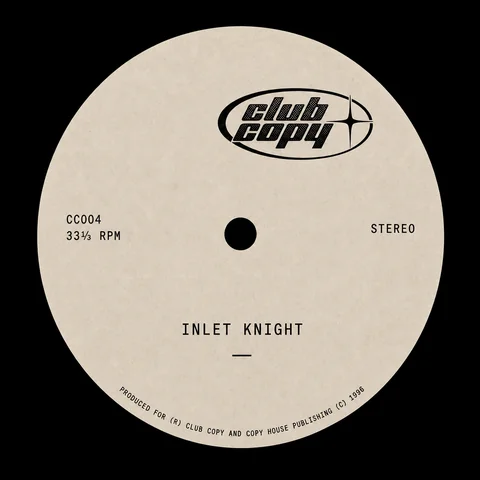
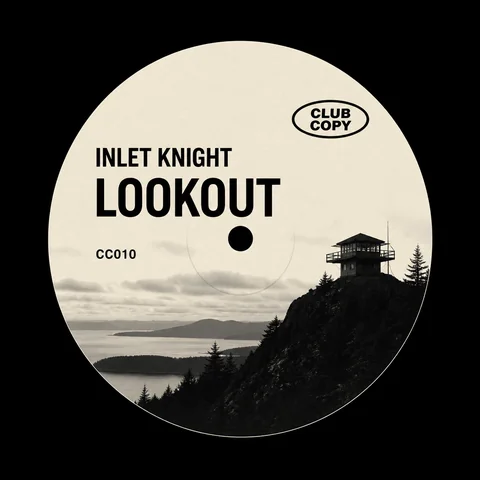
Add Lookout news for Inlet Knight upcoming single
Announce CC010 pre-order with the fire-lookout label art as cover and news hero. Wire the article through the news index, home rail, sitemap, artist page, and llms.txt.

diff --git a/news/lookout.html b/news/lookout.html
@@ -3,7 +3,7 @@
 <head>
   <meta charset="UTF-8"/>
   <meta name="viewport" content="width=device-width,initial-scale=1,viewport-fit=cover"/>
-  <title>News: Sun & Moon (Eclipse Parts 1–3) — Inlet Knight | Club Copy</title>
+  <title>News: Lookout — Inlet Knight | Club Copy</title>
   <script type="application/ld+json">
 {
   "@context": "https://schema.org",
@@ -24,46 +24,42 @@
     {
       "@type": "ListItem",
       "position": 3,
-      "name": "Sun & Moon (Eclipse Parts 1–3)",
-      "item": "https://www.clubcopy.ca/news/sun-and-moon-eclipse"
+      "name": "Lookout",
+      "item": "https://www.clubcopy.ca/news/lookout"
     }
   ]
 }
   </script>
-  <meta name="description" content="Inlet Knight’s Eclipse series is out on Club Copy — Sun & Moon (Part 1), Solar (Part 2), and Lunar (Part 3). Three house singles, digital only (CC012)."/>
+  <meta name="description" content="Lookout — upcoming Inlet Knight single on Club Copy (CC010). Digital pre-order open now."/>
   <meta name="theme-color" content="#FAF8F5"/>
-  <link rel="canonical" href="https://www.clubcopy.ca/news/sun-and-moon-eclipse"/>
+  <link rel="canonical" href="https://www.clubcopy.ca/news/lookout"/>
   <meta property="og:type" content="article"/>
   <meta property="og:site_name" content="Club Copy"/>
-  <meta property="og:title" content="Sun & Moon (Eclipse Parts 1–3) is out"/>
-  <meta property="og:description" content="Three house singles from Inlet Knight on Club Copy — Sun & Moon, Solar, Lunar."/>
-  <meta property="og:url" content="https://www.clubcopy.ca/news/sun-and-moon-eclipse"/>
-  <meta property="og:image" content="https://www.clubcopy.ca/news-eclipse.webp"/>
+  <meta property="og:title" content="Lookout — Inlet Knight"/>
+  <meta property="og:description" content="Upcoming house single from Inlet Knight on Club Copy (CC010). Digital pre-order open."/>
+  <meta property="og:url" content="https://www.clubcopy.ca/news/lookout"/>
+  <meta property="og:image" content="https://www.clubcopy.ca/news-lookout.webp"/>
   <meta property="og:image:width" content="1400"/>
   <meta property="og:image:height" content="1400"/>
   <meta property="og:locale" content="en_CA"/>
   <meta name="twitter:card" content="summary_large_image"/>
-  <meta name="twitter:title" content="Sun & Moon (Eclipse Parts 1–3) — Club Copy"/>
-  <meta name="twitter:description" content="Three house singles from Inlet Knight on Club Copy — Sun & Moon, Solar, Lunar."/>
-  <meta name="twitter:image" content="https://www.clubcopy.ca/news-eclipse.webp"/>
+  <meta name="twitter:title" content="Lookout — Club Copy"/>
+  <meta name="twitter:description" content="Upcoming Inlet Knight single. Digital pre-order on Club Copy (CC010)."/>
+  <meta name="twitter:image" content="https://www.clubcopy.ca/news-lookout.webp"/>
   <meta property="article:published_time" content="2026-08-12"/>
   <meta property="article:author" content="CJ Archer"/>
   <script type="application/ld+json">
   {
     "@context": "https://schema.org",
     "@type": "NewsArticle",
-    "headline": "Sun & Moon (Eclipse Parts 1–3)",
-    "description": "Inlet Knight’s Eclipse series is out on Club Copy — Sun & Moon (Part 1), Solar (Part 2), and Lunar (Part 3). Three house singles, digital only (CC012).",
+    "headline": "Lookout",
+    "description": "Lookout — upcoming Inlet Knight single on Club Copy (CC010). Digital pre-order open now.",
     "datePublished": "2026-08-12",
     "dateModified": "2026-08-12",
     "author": {"@type": "Person", "name": "CJ Archer", "url": "https://www.clubcopy.ca/artists/cj-archer"},
-    "image": ["https://www.clubcopy.ca/news-eclipse.webp"],
-    "mainEntityOfPage": "https://www.clubcopy.ca/news/sun-and-moon-eclipse",
-    "about": [
-      {"@type": "MusicRecording", "name": "Sun & Moon (Eclipse Part 1)", "url": "https://www.clubcopy.ca/sun-and-moon-eclipse"},
-      {"@type": "MusicRecording", "name": "Solar (Eclipse Part 2)", "url": "https://www.clubcopy.ca/solar-eclipse-part-2"},
-      {"@type": "MusicRecording", "name": "Lunar (Eclipse Part 3)", "url": "https://www.clubcopy.ca/lunar-eclipse-part-3"}
-    ],
+    "image": ["https://www.clubcopy.ca/news-lookout.webp"],
+    "mainEntityOfPage": "https://www.clubcopy.ca/news/lookout",
+    "about": {"@type": "MusicRecording", "name": "Lookout", "url": "https://www.clubcopy.ca/lookout", "catalogNumber": "CC010"},
     "publisher": {
       "@type": "Organization",
       "name": "Club Copy",
@@ -124,32 +120,25 @@
   <div class="band">
     <article class="news-article">
       <div class="news-article-hero">
-        <img src="../news-eclipse.webp" alt="Sun & Moon, Solar, and Lunar vinyl labels — Eclipse Parts 1–3" width="1400" height="1400" fetchpriority="high"/>
+        <img src="../news-lookout.webp" alt="Lookout — Inlet Knight CC010 label artwork" width="1400" height="1400" fetchpriority="high"/>
       </div>
       <p class="news-kicker">News · Aug 12, 2026</p>
-      <nav class="crumbs" aria-label="Breadcrumb"><a href="/">Home</a><span>/</span><a href="/news">News</a><span>/</span>Sun & Moon (Eclipse Parts 1–3)</nav>
-      <h1>Sun & Moon (Eclipse Parts 1–3)</h1>
+      <nav class="crumbs" aria-label="Breadcrumb"><a href="/">Home</a><span>/</span><a href="/news">News</a><span>/</span>Lookout</nav>
+      <h1>Lookout</h1>
       <div class="news-body">
-        <p>Inlet Knight’s Eclipse series is out on Club Copy. Three house singles under one catalogue number — <strong>CC012</strong> — released as digital downloads at <strong>$1.99 CAD</strong> each. The arc runs <em>Sun & Moon (Eclipse Part 1)</em>, <em>Solar (Eclipse Part 2)</em>, then <em>Lunar (Eclipse Part 3)</em>.</p>
-        <p>House from Cumberland, BC. Locked drums, long loops, the kind of records that stay on after the room clears. Produced by CJ Archer for Club Copy and Copy House Publishing. If you’ve been following Inlet Knight through the self-titled album, <em>Together</em>, and <em>j'adore</em>, this is the next run — shorter entries, same honesty.</p>
-        <h2>The three parts</h2>
-        <p><a href="/sun-and-moon-eclipse"><em>Sun & Moon (Eclipse Part 1)</em></a> opens the series. Somewhere between the two — the first light in the set. Start here if you want the through-line clean.</p>
-        <p><a href="/solar-eclipse-part-2"><em>Solar (Eclipse Part 2)</em></a> follows. Daylight heat, still house, still Inlet Knight. Same catalogue family as Part 1; a different angle on the night.</p>
-        <p><a href="/lunar-eclipse-part-3"><em>Lunar (Eclipse Part 3)</em></a> closes the eclipse. Late side. Pull it after Solar and the sequence holds — sun, solar, lunar.</p>
-        <h2>How to listen</h2>
-        <p>Each single is digital only: streaming previews on the release pages, full download after checkout. No shipping. Grab one part or collect all three from the <a href="/library">library</a> or <a href="/merch">shop</a>. More from Inlet Knight — including cassette and digital catalogue — lives on the <a href="/artists/inlet-knight">artist page</a>.</p>
+        <p>Inlet Knight has a new single coming. It’s called <em>Lookout</em> — catalogue <strong>CC010</strong> on Club Copy.</p>
+        <p>House from Cumberland. Same honesty as the self-titled album, <em>Together</em>, <em>j'adore</em>, and the Eclipse run — one track, locked in, ready for late rooms. Digital pre-order is open now at <strong>$8 CAD</strong>. No street date yet; when it lands, the files go out.</p>
+        <p>Produced by CJ Archer for Club Copy and Copy House Publishing. Preview on the release page. Full download after checkout — no shipping.</p>
         <div class="news-ctas">
-          <a href="/sun-and-moon-eclipse">Listen to Part 1 — Sun & Moon</a>
-          <a href="/solar-eclipse-part-2">Listen to Part 2 — Solar</a>
-          <a href="/lunar-eclipse-part-3">Listen to Part 3 — Lunar</a>
+          <a href="/lookout">Pre-order Lookout</a>
           <a href="/artists/inlet-knight">More from Inlet Knight</a>
+          <a href="/merch">Shop</a>
         </div>
       </div>
       <p class="news-byline news-byline--end">CJ Archer</p>
       <nav class="news-nav" aria-label="News navigation">
-        <a href="/news/lookout">Previous: Lookout</a>
         <a href="/news">All news</a>
-        <a href="/news/j-adore">Next: j'adore</a>
+        <a href="/news/sun-and-moon-eclipse">Next: Sun & Moon (Eclipse Parts 1–3)</a>
       </nav>
     </article>
   </div>

diff --git a/news.html b/news.html
@@ -29,59 +29,65 @@
   "url": "https://www.clubcopy.ca/news",
   "mainEntity": {
     "@type": "ItemList",
-    "numberOfItems": 9,
+    "numberOfItems": 10,
     "itemListElement": [
       {
         "@type": "ListItem",
         "position": 1,
+        "name": "Lookout",
+        "url": "https://www.clubcopy.ca/news/lookout"
+      },
+      {
+        "@type": "ListItem",
+        "position": 2,
         "name": "Sun & Moon (Eclipse Parts 1–3)",
         "url": "https://www.clubcopy.ca/news/sun-and-moon-eclipse"
       },
       {
         "@type": "ListItem",
-        "position": 2,
+        "position": 3,
         "name": "j'adore",
         "url": "https://www.clubcopy.ca/news/j-adore"
       },
       {
         "@type": "ListItem",
-        "position": 3,
+        "position": 4,
         "name": "Any Jungle In?",
         "url": "https://www.clubcopy.ca/news/any-jungle"
       },
       {
         "@type": "ListItem",
-        "position": 4,
+        "position": 5,
         "name": "Together",
         "url": "https://www.clubcopy.ca/news/together"
       },
       {
         "@type": "ListItem",
-        "position": 5,
+        "position": 6,
         "name": "Double-Edge on Club Copy",
         "url": "https://www.clubcopy.ca/news/double-edge-on-club-copy"
       },
       {
         "@type": "ListItem",
-        "position": 6,
+        "position": 7,
         "name": "Welcome, Inlet Knight",
         "url": "https://www.clubcopy.ca/news/inlet-knight-on-club-copy"
       },
       {
         "@type": "ListItem",
-        "position": 7,
+        "position": 8,
         "name": "Inlet Knight",
         "url": "https://www.clubcopy.ca/news/inlet-knight"
       },
       {
         "@type": "ListItem",
-        "position": 8,
+        "position": 9,
         "name": "Buried Treasure",
         "url": "https://www.clubcopy.ca/news/buried-treasure"
       },
       {
         "@type": "ListItem",
-        "position": 9,
+        "position": 10,
         "name": "CJ Archer Interview",
         "url": "https://www.clubcopy.ca/news/cj-archer-interview"
       }
@@ -193,6 +199,16 @@
     </header>
     <p class="news-index-lead">Updates from Club Copy.</p>
         <div class="news-grid">
+      <a class="news-card" href="/news/lookout">
+        <div class="news-card-art media-bezel fx-spec">
+          <img src="news-lookout.webp" alt="Lookout — Inlet Knight CC010 label artwork" width="1400" height="1400" loading="lazy"/>
+        </div>
+        <div class="news-card-body">
+          <p class="news-card-date">Aug 12, 2026</p>
+          <h2 class="news-card-title">Lookout</h2>
+          <p class="news-card-dek">Upcoming Inlet Knight single on Club Copy (CC010). Digital pre-order open.</p>
+        </div>
+      </a>
       <a class="news-card" href="/news/sun-and-moon-eclipse">
         <div class="news-card-art media-bezel fx-spec">
           <img src="news-eclipse.webp" alt="Sun & Moon, Solar, and Lunar vinyl labels — Eclipse Parts 1–3" width="1400" height="1400" loading="lazy"/>

diff --git a/index.html b/index.html
@@ -1763,6 +1763,16 @@
 
     <div class="news-rail" tabindex="0" role="region" aria-label="News — scroll sideways">
       <div class="news-rail-track">
+        <a class="news-card rv" href="/news/lookout">
+          <div class="news-card-art media-bezel fx-spec">
+            <img src="news-lookout.webp" alt="Lookout — Inlet Knight CC010 label artwork" width="1400" height="1400" loading="lazy"/>
+          </div>
+          <div class="news-card-body">
+            <p class="news-card-date">Aug 12, 2026</p>
+            <h3 class="news-card-title">Lookout</h3>
+            <p class="news-card-dek">Upcoming Inlet Knight single on Club Copy (CC010). Digital pre-order open.</p>
+          </div>
+        </a>
         <a class="news-card rv" href="/news/sun-and-moon-eclipse">
           <div class="news-card-art media-bezel fx-spec">
             <img src="news-eclipse.webp" alt="Sun & Moon, Solar, and Lunar vinyl labels — Eclipse Parts 1–3" width="1400" height="1400" loading="lazy"/>

diff --git a/scripts/seo-elite-upgrade.js b/scripts/seo-elite-upgrade.js
@@ -34,6 +34,7 @@ const PAGE_MAP = {
   'artists/double-edge.html': '/artists/double-edge',
   'artists/inlet-knight.html': '/artists/inlet-knight',
   'news/j-adore.html': '/news/j-adore',
+  'news/lookout.html': '/news/lookout',
   'news/any-jungle.html': '/news/any-jungle',
   'news/double-edge-on-club-copy.html': '/news/double-edge-on-club-copy',
   'news/inlet-knight-on-club-copy.html': '/news/inlet-knight-on-club-copy',

diff --git a/artists/inlet-knight.html b/artists/inlet-knight.html
@@ -285,6 +285,7 @@
         <p class="artist-bio">House from Cumberland, BC.</p>
         <div class="artist-actions">
           <a class="btn btn-dark" href="/lookout">Pre-order Lookout</a>
+          <a class="btn btn-ghost" href="/news/lookout">Read: Lookout</a>
           <a class="btn btn-ghost" href="/library?artist=inlet-knight">Full library</a>
         </div>
       </div>
